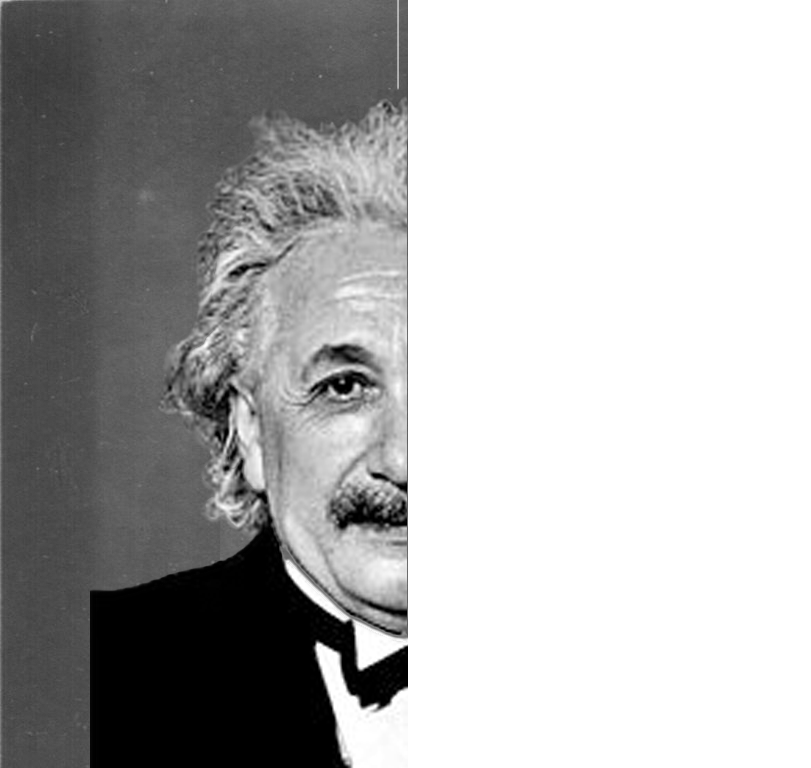
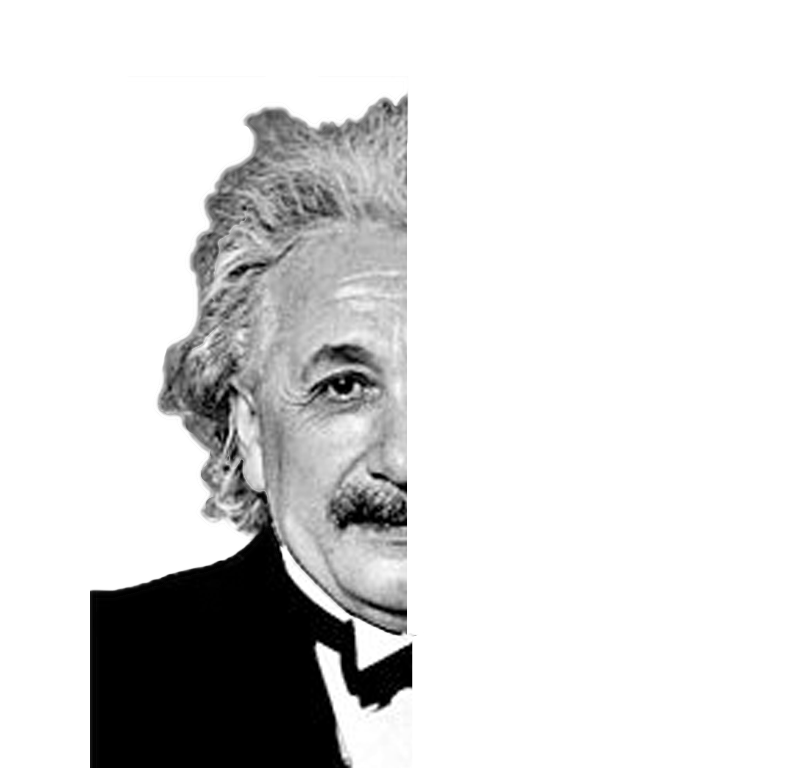
Setup grid layout

diff --git a/src/components/SlideManager/index.js b/src/components/SlideManager/index.js
@@ -3,18 +3,13 @@ import { connect } from "react-redux"
 import { bindActionCreators } from "redux"
 
 import {
-    CurrentSlide,
-    NextSlide,
-    CurrentHeader,
-    NextHeader,
-    CurrentContent,
-    NextContent,
-    CurrentSlideButton,
-    NextSlideButton,
+    Slide,
+    Header,
+    Content,
+    SlideButton,
     ScrollToTopButton,
     SlideManagerContainer,
-    CurrentParallaxImage,
-    NextParallaxImage
+    ParallaxImage
 } from "./styles"
 
 import { actions as slidesActions, selectors as slidesSelectors } from "Redux/Slides"
@@ -93,56 +88,52 @@ class SlideManager extends React.Component {
 
         return (
             <SlideManagerContainer>
-                <CurrentSlide>
-                    <CurrentHeader isAnimating={ this.state.isAnimating }
+                <Slide src={ "/assets/images/background.png" }>
+                    <Header isAnimating={ this.state.isAnimating }
                         top={ header1Top }
-                        left={ header1Left }>This is the first Header Cheddar :D</CurrentHeader>
-                    <CurrentContent
+                        left={ header1Left }>This is the first Header Cheddar :D</Header>
+                    <Content
                         isAnimating={ this.state.isAnimating }
                         top={ content1Top }
                         left={ content1Left }>
                         There once was a man who lived in a shoe. The shoe was cool
                         but the was more to do. So I went to the pool and took a stool and
                         said what a fool to not bring his tools.
-                    </CurrentContent>
-                    <CurrentParallaxImage
+                    </Content>
+                    <ParallaxImage
                         src={ "/assets/images/young-left.png" }
                         isAnimating={ this.state.isAnimating }
                         top={ image1Top }
                         left={ image1Left } />
-                    <CurrentParallaxImage
+                    <ParallaxImage
                         src={ "/assets/images/young-right.png" }
                         isAnimating={ this.state.isAnimating }
                         top={ image2Top }
                         left={ image2Left } />
-                    <div>
-                        <NextSlideButton onClick={ () => this.handleClick() }>Next Slide</NextSlideButton>
-                    </div>
-                </CurrentSlide>
-                <NextSlide>
-                    <NextHeader
+                    <SlideButton onClick={ () => this.handleClick() }>Next Slide</SlideButton>
+                </Slide>
+                <Slide src={ "/assets/images/background.png" }>
+                    <Header
                         isAnimating={ this.state.isAnimating }
                         top={ header2Top }
-                        left={ header2Left }>Ayyyy let me slide in here right quick</NextHeader>
-                    <NextContent isAnimating={ this.state.isAnimating }
+                        left={ header2Left }>Ayyyy let me slide in here right quick</Header>
+                    <Content isAnimating={ this.state.isAnimating }
                         top={ content2Top }
                         left={ content2Left }>
                         Lorem ipsum dolor sit amet, consectetur adipisicing elit. Totam odio deleniti impedit soluta nostrum ipsa ea harum molestias, perspiciatis consectetur quibusdam, dolores voluptates quas vero. Odit itaque dicta illum consectetur.
-                    </NextContent>
-                    <NextParallaxImage
+                    </Content>
+                    <ParallaxImage
                         src={ "/assets/images/old-left.png" }
                         isAnimating={ this.state.isAnimating }
                         top={ image3Top }
                         left={ image3Left } />
-                    <NextParallaxImage
+                    <ParallaxImage
                         src={ "/assets/images/young-right.png" }
                         isAnimating={ this.state.isAnimating }
                         top={ image4Top }
                         left={ image4Left } />
-                    <div>
-                        <NextSlideButton onClick={ () => this.handleClick() }>Next Slide</NextSlideButton>
-                    </div>
-                </NextSlide>
+                    <SlideButton onClick={ () => this.handleClick() }>Next Slide</SlideButton>
+                </Slide>
             </SlideManagerContainer>
         )
     }

diff --git a/src/components/SlideManager/styles.js b/src/components/SlideManager/styles.js
@@ -6,36 +6,51 @@ export const SlideManagerContainer = styled.div`
     overflow: hidden;
     height: ${window.innerHeight}px;    
 `
-export const CurrentSlide = styled.div`
+export const Slide = styled.div`
     ${({ src }) => src && `background: url(${src});`}
+    background-size: 100% 100%;
     height: ${window.innerHeight}px;
     position: absolute;
-    display: flex;
+    display: grid;
+    grid-template-columns: repeat(8, 1fr);
+    grid-template-rows: repeat(8, 1fr);
     flex-direction: column;
     justify-content: space-between;
+    grid-template-areas: 
+        "header header header header header header header header"
+        "header header header header header header header header"
+        ". . . . . . . ."
+        "content content content content content content content content"
+        "content content content content content content content content"
+        "content content content content content content content content"
+        ". . . . . . . ."
+        "button button button . . . . .";
+        
+    > * {
+        z-index: 5;
+    }
 `
-export const NextSlide = styled(CurrentSlide)``
 
-export const CurrentHeader = styled.h1`
+export const Header = styled.h1`
     ${({ isAnimating }) => isAnimating && "transition: all 1s ease-in-out;" }
     ${({ left, top }) => `left: ${left}; top: ${top};`}
     position: relative;
+    grid-area: header;
 `
-export const NextHeader = styled(CurrentHeader)``
 
-export const CurrentContent = styled.p`
+export const Content = styled.p`
     ${({ isAnimating }) => isAnimating && "transition: all 1s ease-in-out;" }
     ${({ left, top }) => `left: ${left}; top: ${top};`}
     position: relative;
+    grid-area: content;
 `
-export const NextContent = styled(CurrentContent)``
 
-export const CurrentSlideButton = styled.button`
+export const SlideButton = styled.button`
     ${({ isAnimating }) => isAnimating && "transition: all 1s ease-in-out;" }
     ${({ left, top }) => `left: ${left}; top: ${top};`}
     position: relative;
+    grid-area: button;
 `
-export const NextSlideButton = styled(CurrentSlideButton)``
 
 export const ScrollToTopButton = styled.button`
     ${({ isAnimating }) => isAnimating && "transition: all 1s ease-in-out;" }
@@ -43,16 +58,14 @@ export const ScrollToTopButton = styled.button`
     position: relative;
 `
 
-export const CurrentParallaxImage = styled.div`
+export const ParallaxImage = styled.div`
     ${({ isAnimating }) => isAnimating && "transition: all 1s ease-in-out;" }
     ${({ left, top }) => `left: ${left}; top: ${top};`}
-    background: url(${({ src }) => src});
-    background-size: 100% 100%;
+    background: url(${({ src }) => src}) no-repeat;
+    background-size: 100%;
+    background-position: center;
     position: absolute;
     width: 100%;
     height: 100%;
-    z-index: -1;
-`
-export const NextParallaxImage = styled(CurrentParallaxImage)`
-    ${({ left, top }) => `left: ${left}; top: ${top};`}    
+    z-index: 1;
 `
